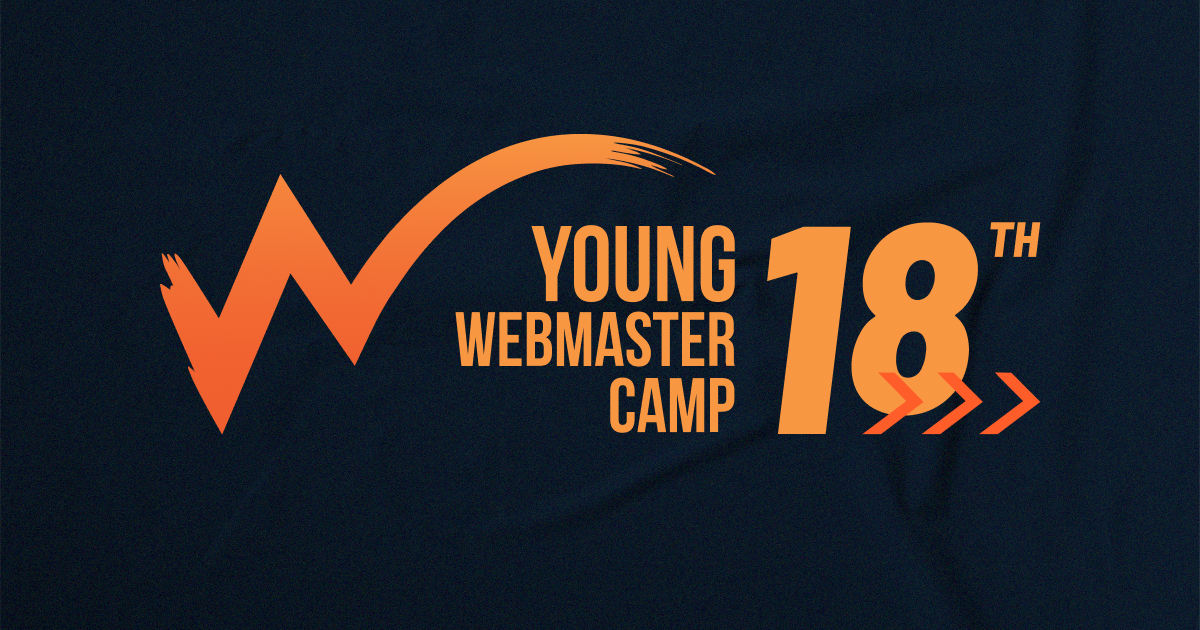
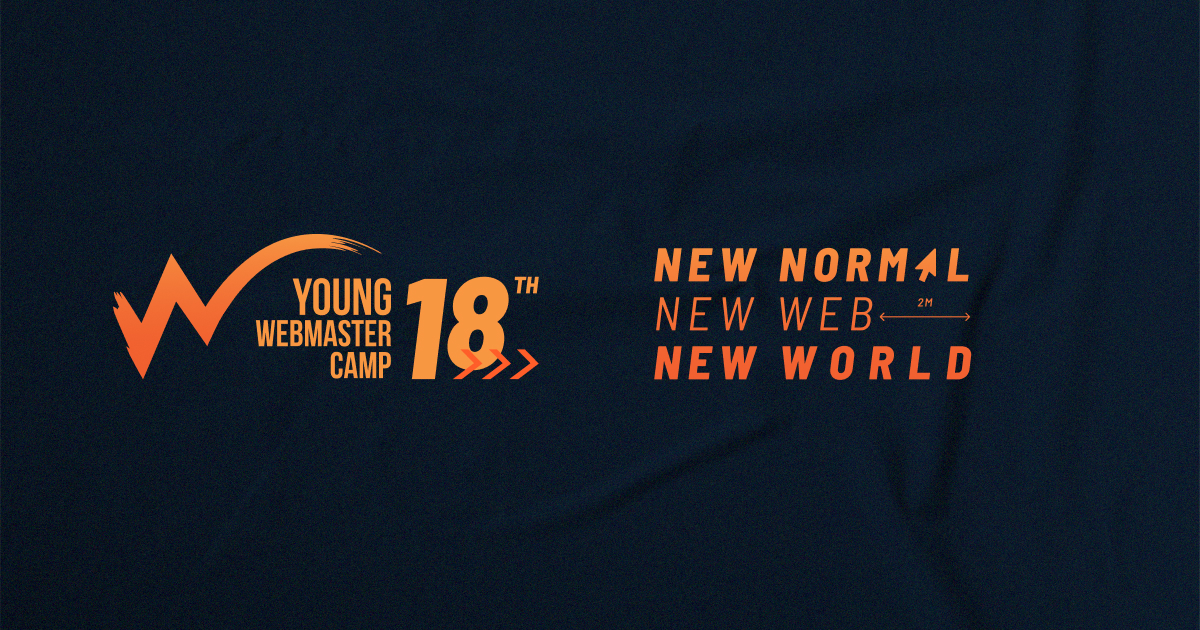
Update opengraph

Changed region(s): [[0.0925, 0.2111, 0.8633, 0.6937]]

diff --git a/nuxt.config.ts b/nuxt.config.ts
@@ -11,17 +11,11 @@ const config = {
       { charset: "utf-8" },
       { name: "viewport", content: "width=device-width, initial-scale=1" },
       {
-        hid: "description",
-        property: "description",
+        hid: 'description',
+        property: 'description',
         content:
-          "Young Webmaster Camp ครั้งที่ 18 - ค่ายสร้างเว็บไซต์ระดับอุดมศึกษาที่ใหญ่ที่สุด",
+          'Young Webmaster Camp ครั้งที่ 18 “New Normal, New Web, New World” ค่ายสร้างเว็บไซต์ระดับอุดมศึกษาที่ใหญ่ที่สุด'
       },
-      // {
-      //   hid: 'description',
-      //   property: 'description',
-      //   content:
-      //     'Young Webmaster Camp ครั้งที่ 18 “New Normal - New Web - New World” ค่ายสร้างเว็บไซต์ระดับอุดมศึกษาที่ใหญ่ที่สุด'
-      // },
 
       { property: "og:type", content: "website" },
       {
@@ -35,12 +29,12 @@ const config = {
         content:
           "Young Webmaster Camp ครั้งที่ 18 - ค่ายสร้างเว็บไซต์ระดับอุดมศึกษาที่ใหญ่ที่สุด",
       },
-      // {
-      //   hid: 'og:description',
-      //   property: 'og:description',
-      //   content:
-      //     'Young Webmaster Camp ครั้งที่ 18 “New Normal - New Web - New World” ค่ายสร้างเว็บไซต์ระดับอุดมศึกษาที่ใหญ่ที่สุด'
-      // },
+      {
+        hid: 'og:description',
+        property: 'og:description',
+        content:
+          'Young Webmaster Camp ครั้งที่ 18 “New Normal, New Web, New World” ค่ายสร้างเว็บไซต์ระดับอุดมศึกษาที่ใหญ่ที่สุด'
+      },
       {
         property: "og:image",
         content: "https://ywc18.ywc.in.th/images/ywc18/ogImage.jpg",
